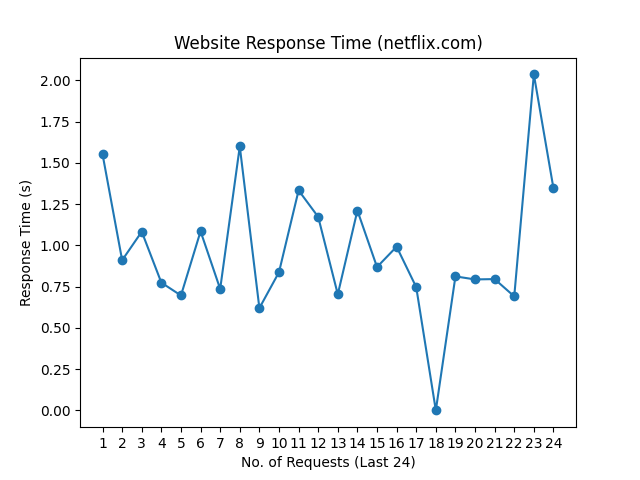
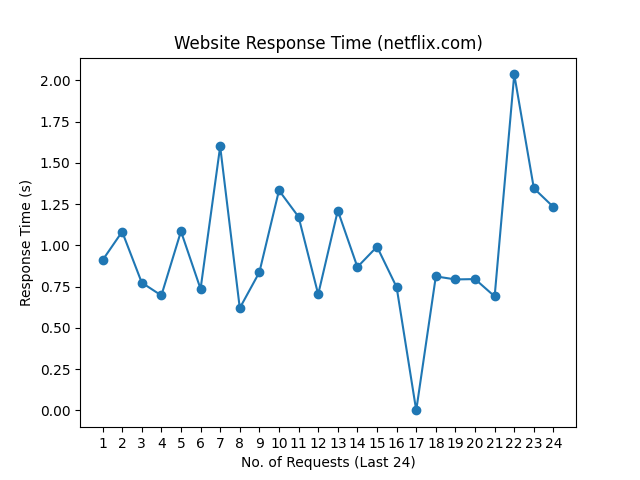
update README.md, history and graph

Changed region(s): [[0.1562, 0.125, 0.875, 0.875]]

diff --git a/README.md b/README.md
@@ -1,10 +1,10 @@
 # Web Monitoring
 
-Last Checked: 04/04/2025 08:21
+Last Checked: 05/04/2025 08:21
 
 | Website | Response Time (s) | Status | Avg Uptime (%) |
 |---------|-------------------|--------|----------------|
 | www.thiswebsiteisdown.net | 0 <br> <img src="graph/thiswebsiteisdown.net.png" alt="Graph" width="200" height="200">  | ❌ Down | 0.00 |
-| www.netflix.com | 1.345995 <br> <img src="graph/netflix.com.png" alt="Graph" width="200" height="200">  | ✅ Up | 99.67 |
-| www.google.com | 0.095738 <br> <img src="graph/google.com.png" alt="Graph" width="200" height="200">  | ✅ Up | 100.00 |
-| www.facebook.com | 0.638628 <br> <img src="graph/facebook.com.png" alt="Graph" width="200" height="200">  | ✅ Up | 100.00 |
+| www.netflix.com | 1.232208 <br> <img src="graph/netflix.com.png" alt="Graph" width="200" height="200">  | ✅ Up | 99.67 |
+| www.google.com | 0.093913 <br> <img src="graph/google.com.png" alt="Graph" width="200" height="200">  | ✅ Up | 100.00 |
+| www.facebook.com | 0.579523 <br> <img src="graph/facebook.com.png" alt="Graph" width="200" height="200">  | ✅ Up | 100.00 |
